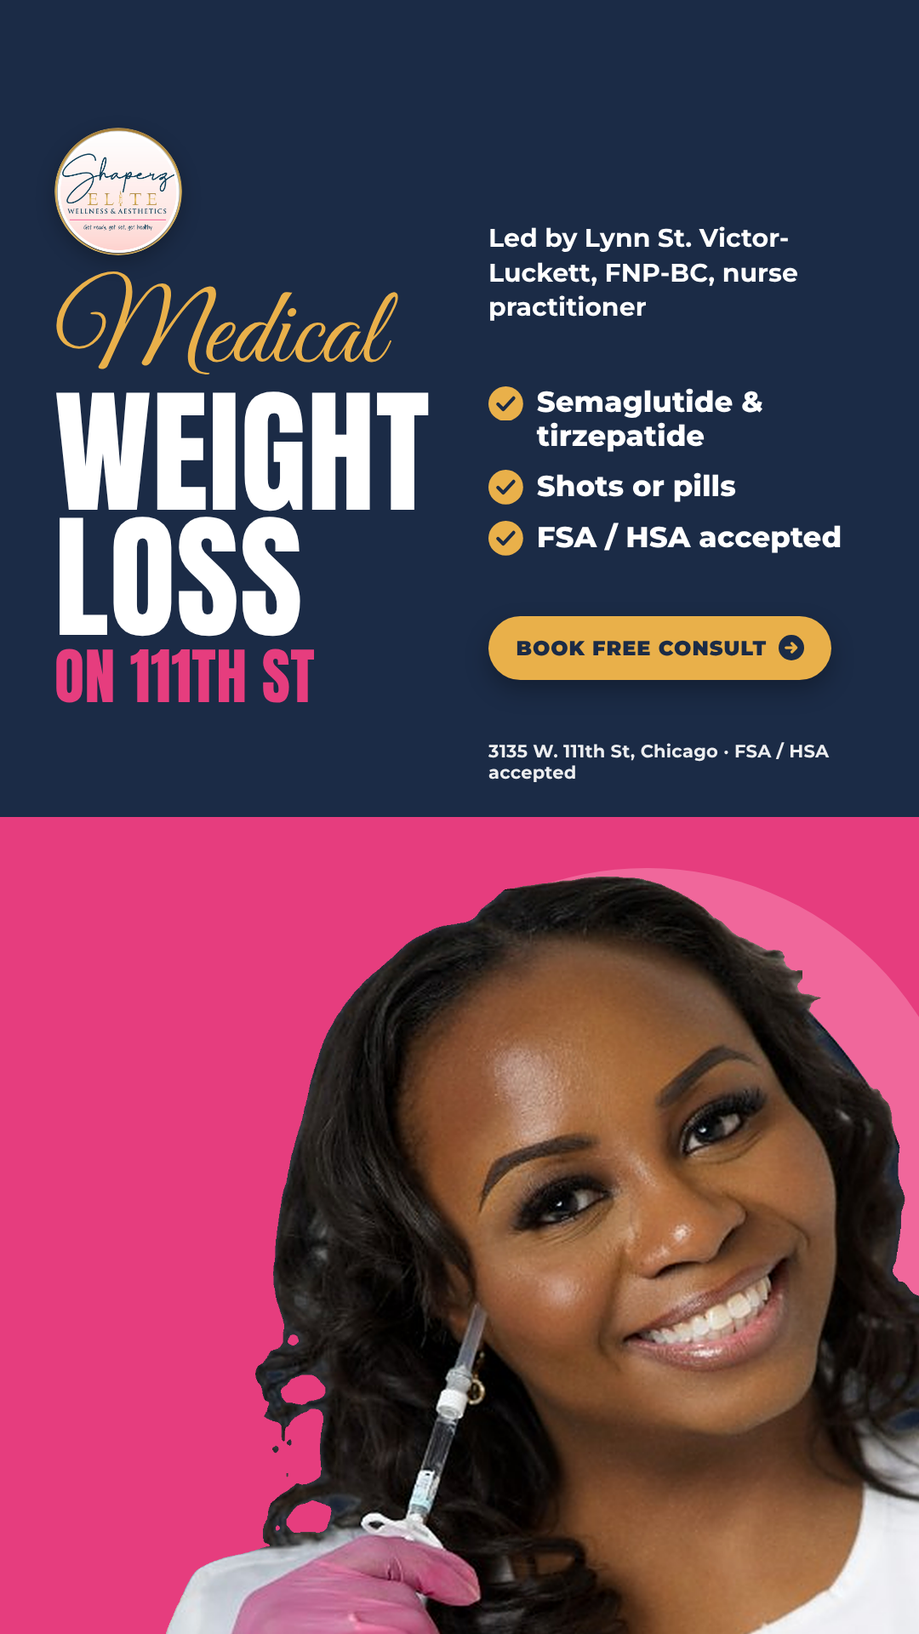
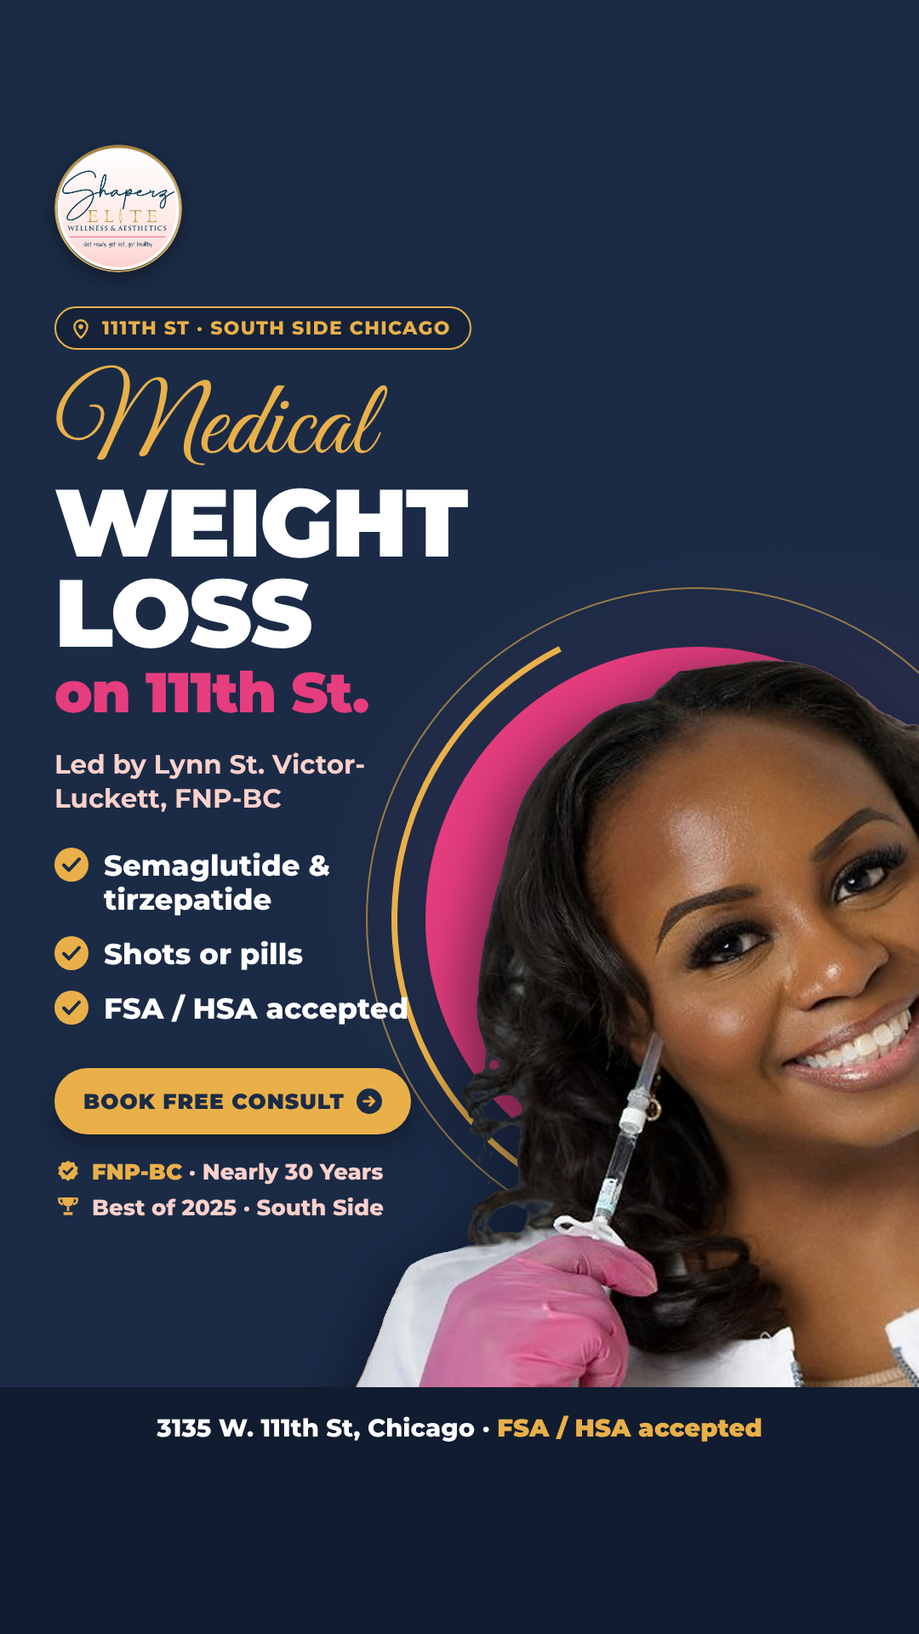
Shaperz v4: rebuild the ads in the Novaleo v4 style
Navy ground, person cut out on a pink disc with gold ring and arc,
bleeding off the side into the address band; script + heavy headline,
gold checks and button, proof line. Same layout grammar as the Novaleo
ads, in Shaperz colors, for feed and Stories.

Claude-Session: https://claude.ai/code/session_017jYzquWv7MYexAx6PPnLJC

diff --git a/ads/shaperz-v4/build/render.js b/ads/shaperz-v4/build/render.js
@@ -1,4 +1,5 @@
-// Shaperz v4 ads: people fill half the frame and bleed off the edges, text fills the rest.
+// Shaperz v4 ads, in the Novaleo v4 style: navy ground, person cut out on a pink disc with gold ring + arc,
+// bleeding off the side and into the address band; text column with pill, headline, checks, CTA, proof row.
 //   node ads/shaperz-v4/build/render.js   -> ads/shaperz-v4/shaperz-v4-<ad>-<feed|story>.png + preview.html
 // Run build/prep.py first (it writes photos/*-cut.png).
 const fs = require('fs');
@@ -9,10 +10,8 @@ const ROOT = path.resolve(__dirname, '..');
 const PHOTOS = path.join(ROOT, 'photos');
 const FONTS = path.join(__dirname, 'fonts');
 
-const C = { navy: '#1B2B46', navyDeep: '#121E33', pink: '#E63D7E', pinkDeep: '#C42A68', gold: '#E9B04A', goldDeep: '#B8862C', blush: '#FDD1CB', white: '#FFFFFF' };
+const C = { navy: '#1B2B46', navyDeep: '#111C30', pink: '#E63D7E', gold: '#E9B04A', goldDeep: '#B8862C', blush: '#FDD1CB', white: '#FFFFFF' };
 const SIZES = { feed: [1080, 1350], story: [1080, 1920] };
-// Cutouts are 1680×2130; every person is placed by its rendered width and top-left inside its panel.
-const CUT_W = 1680;
 
 const dataUri = (file) => {
   const ext = path.extname(file).slice(1);
@@ -22,7 +21,6 @@ const dataUri = (file) => {
 const font = (family, file, weight) =>
   `@font-face{font-family:'${family}';src:url(${dataUri(path.join(FONTS, file))}) format('woff2');font-weight:${weight}}`;
 const FONT_CSS = [
-  font('Anton', 'anton-latin-400-normal.woff2', 400),
   font('Great Vibes', 'great-vibes-latin-400-normal.woff2', 400),
   font('Montserrat', 'montserrat-latin-600-normal.woff2', 600),
   font('Montserrat', 'montserrat-latin-700-normal.woff2', 700),
@@ -33,145 +31,127 @@ const FONT_CSS = [
 const LOGO = dataUri(path.join(PHOTOS, 'shaperz-logo.png'));
 const PERSON = { lynn: dataUri(path.join(PHOTOS, 'lynn-cut.png')), woman249: dataUri(path.join(PHOTOS, 'woman249-cut.png')) };
 
-const check = (bg, fg) => `<svg viewBox="0 0 40 40"><circle cx="20" cy="20" r="20" fill="${bg}"/><path d="M11 20.5l6 6 12-13" fill="none" stroke="${fg}" stroke-width="4" stroke-linecap="round" stroke-linejoin="round"/></svg>`;
-const arrow = (bg, fg) => `<svg viewBox="0 0 24 24"><circle cx="12" cy="12" r="12" fill="${bg}"/><path d="M7 12h9m-3.5-4 4 4-4 4" fill="none" stroke="${fg}" stroke-width="2.6" stroke-linecap="round" stroke-linejoin="round"/></svg>`;
-const sparkle = (color, size) => `<svg class="spark" viewBox="0 0 24 24" style="width:${size}px;height:${size}px"><path d="M12 0c.6 6.2 5.8 11.4 12 12-6.2.6-11.4 5.8-12 12-.6-6.2-5.8-11.4-12-12C6.2 11.4 11.4 6.2 12 0z" fill="${color}"/></svg>`;
+const CHECK = `<svg viewBox="0 0 40 40"><circle cx="20" cy="20" r="20" fill="${C.gold}"/><path d="M11 20.5l6 6 12-13" fill="none" stroke="${C.navy}" stroke-width="4" stroke-linecap="round" stroke-linejoin="round"/></svg>`;
+const PIN = `<svg viewBox="0 0 24 24"><path d="M12 22s7-6.2 7-12a7 7 0 1 0-14 0c0 5.8 7 12 7 12z" fill="none" stroke="currentColor" stroke-width="2.2"/><circle cx="12" cy="10" r="2.6" fill="currentColor"/></svg>`;
+const ARROW = `<svg viewBox="0 0 24 24"><circle cx="12" cy="12" r="12" fill="${C.navy}"/><path d="M7 12h9m-3.5-4 4 4-4 4" fill="none" stroke="${C.gold}" stroke-width="2.4" stroke-linecap="round" stroke-linejoin="round"/></svg>`;
+const BADGE = `<svg viewBox="0 0 24 24"><path d="M12 2l2.4 1.8 3-.2.9 2.9 2.5 1.7-1 2.8 1 2.8-2.5 1.7-.9 2.9-3-.2L12 20l-2.4-1.8-3 .2-.9-2.9-2.5-1.7 1-2.8-1-2.8 2.5-1.7.9-2.9 3 .2z" fill="${C.gold}"/><path d="M8.3 11.3l2.5 2.5 4.9-5" fill="none" stroke="${C.navy}" stroke-width="2.2" stroke-linecap="round" stroke-linejoin="round"/></svg>`;
+const TROPHY = `<svg viewBox="0 0 24 24"><path d="M7 3h10v3a5 5 0 0 1-10 0z" fill="${C.gold}"/><path d="M7 4H4v1.5A3.5 3.5 0 0 0 7.5 9M17 4h3v1.5A3.5 3.5 0 0 1 16.5 9" fill="none" stroke="${C.gold}" stroke-width="1.8"/><path d="M11 11h2v4h-2zM8 16h8v2.5H8z" fill="${C.gold}"/></svg>`;
 
 const BASE_CSS = `
 ${FONT_CSS}
 *{box-sizing:border-box;margin:0;padding:0}
 html,body{width:var(--w);height:var(--h);overflow:hidden}
-body{font-family:'Montserrat',sans-serif;position:relative;-webkit-font-smoothing:antialiased}
-.panel{position:absolute;overflow:hidden}
-.panel .person{position:absolute;max-width:none}
-.circle{position:absolute;border-radius:50%}
-.text{position:absolute;display:flex;flex-direction:column;justify-content:space-between;z-index:3}
-.logo{width:150px;height:150px;border-radius:50%;box-shadow:0 8px 22px rgba(0,0,0,.25)}
-.script{font-family:'Great Vibes',cursive;line-height:.9}
-.anton{font-family:'Anton',sans-serif;text-transform:uppercase;line-height:.92;letter-spacing:.005em}
-.checks{list-style:none;display:grid;gap:18px}
-.checks li{display:flex;gap:16px;align-items:flex-start;font-weight:800;line-height:1.18}
-.checks svg{flex:0 0 auto;margin-top:.04em}
-.cta{display:inline-flex;align-items:center;gap:14px;border-radius:999px;font-weight:900;letter-spacing:.04em;text-transform:uppercase;box-shadow:0 12px 28px rgba(0,0,0,.28);align-self:flex-start;white-space:nowrap}
-.addr{font-weight:700;letter-spacing:.01em;opacity:.92}
-.badge{position:relative;border-radius:50%;background:radial-gradient(circle at 35% 30%, #F7D27E, ${C.gold} 55%, ${C.goldDeep});display:flex;flex-direction:column;align-items:center;justify-content:center;color:${C.navy};text-align:center;box-shadow:0 10px 26px rgba(0,0,0,.3), inset 0 0 0 6px rgba(255,255,255,.35)}
-.badge b{font-family:'Anton';font-weight:400;line-height:.95}
+body{background:${C.navy};color:${C.white};font-family:'Montserrat',sans-serif;position:relative;-webkit-font-smoothing:antialiased}
+.feed{--logo-top:48px}.story{--logo-top:170px}
+.bgglow{position:absolute;inset:0;background:radial-gradient(900px 700px at var(--glow-x,85%) 55%, rgba(230,61,126,.16), transparent 60%)}
+.logo{position:absolute;top:var(--logo-top);width:150px;height:150px;border-radius:50%;z-index:5;box-shadow:0 8px 22px rgba(0,0,0,.35)}
+.ring{position:absolute;border-radius:50%;border:2px solid rgba(233,176,74,.6)}
+.arc{position:absolute;border-radius:50%;border:7px solid ${C.gold};border-color:transparent transparent ${C.gold} ${C.gold};transform:rotate(18deg)}
+.arc.flip{border-color:transparent ${C.gold} ${C.gold} transparent;transform:rotate(-18deg)}
+.disc{position:absolute;border-radius:50%;background:${C.pink}}
+.person{position:absolute;z-index:2;filter:drop-shadow(-18px 10px 30px rgba(5,10,24,.5))}
+.copy{position:absolute;z-index:4}
+.pill{display:inline-flex;align-items:center;gap:12px;border:2px solid ${C.gold};color:${C.gold};border-radius:999px;padding:10px 22px 10px 16px;font-weight:800;font-size:22px;letter-spacing:.06em;text-transform:uppercase;background:rgba(17,28,48,.55);white-space:nowrap}
+.pill svg{width:26px;height:26px}
+.script{font-family:'Great Vibes',cursive;line-height:.95}
+.black{font-weight:900;letter-spacing:-.02em;text-transform:uppercase}
+.checks{list-style:none;display:grid;gap:20px}
+.checks li{display:flex;gap:18px;align-items:flex-start;font-weight:800;font-size:31px;line-height:1.18}
+.checks svg{flex:0 0 40px;width:40px;height:40px;margin-top:-1px}
+.story .checks li{font-size:34px}.story .checks{gap:24px}
+.cta{display:inline-flex;align-items:center;gap:14px;background:${C.gold};color:${C.navy};border-radius:999px;padding:24px 34px;font-weight:900;font-size:25px;letter-spacing:.04em;text-transform:uppercase;box-shadow:0 12px 28px rgba(0,0,0,.35);white-space:nowrap}
+.cta svg{width:30px;height:30px}
+.proof{display:grid;gap:10px;margin-top:22px;font-weight:800;font-size:23px;color:${C.blush};white-space:nowrap}
+.proof>div{display:flex;align-items:center;gap:12px}
+.proof svg{width:32px;height:32px;flex:0 0 32px}
+.proof b{color:${C.gold};font-weight:900}
+.story .proof{font-size:26px;margin-top:28px}
+.badge{border-radius:50%;background:radial-gradient(circle at 35% 30%, #F7D27E, ${C.gold} 55%, ${C.goldDeep});display:flex;flex-direction:column;align-items:center;justify-content:center;color:${C.navy};text-align:center;box-shadow:0 10px 26px rgba(0,0,0,.35), inset 0 0 0 6px rgba(255,255,255,.35)}
+.badge b{font-weight:900;line-height:.95;letter-spacing:-.02em}
 .badge span{font-weight:900;text-transform:uppercase;letter-spacing:.08em;line-height:1.2}
-.spark{position:absolute;z-index:2}
+.band{position:absolute;left:0;right:0;bottom:0;height:80px;background:${C.navyDeep};display:flex;align-items:center;justify-content:center;font-weight:800;font-size:26px;z-index:6}
+.band b{color:${C.gold};font-weight:900}
+.story .band{height:290px;align-items:flex-start;padding-top:30px;font-size:29px}
 `;
 
+const pill = (text) => `<div class="pill">${PIN}<span>${text}</span></div>`;
+const checks = (items) => `<ul class="checks">${items.map((t) => `<li>${CHECK}<span>${t}</span></li>`).join('')}</ul>`;
+const cta = (label) => `<div class="cta">${label} ${ARROW}</div>`;
+const proof = (award = true) => `<div class="proof"><div>${BADGE}<span><b>FNP-BC</b> · Nearly 30 Years</span></div>${award ? `<div>${TROPHY}<span>Best of 2025 · South Side</span></div>` : ''}</div>`;
 const badge = (size) => `<div class="badge" style="width:${size}px;height:${size}px">
-  <span style="font-size:${size * 0.085}px">Best of</span><b style="font-size:${size * 0.34}px">2025</b>
+  <span style="font-size:${size * 0.085}px">Best of</span><b style="font-size:${size * 0.32}px">2025</b>
   <span style="font-size:${size * 0.07}px">Medical Spa</span><span style="font-size:${size * 0.07}px">South Side</span></div>`;
-const checks = (items, size, bg, fg, color) =>
-  `<ul class="checks" style="font-size:${size}px;color:${color}">${items.map((t) => `<li>${check(bg, fg).replace('<svg', `<svg style="width:${size * 1.2}px;height:${size * 1.2}px"`)}<span>${t}</span></li>`).join('')}</ul>`;
-const cta = (label, size, bg, fg) =>
-  `<div class="cta" style="background:${bg};color:${fg};font-size:${size}px;padding:${size * 0.95}px ${size * 1.35}px">${label} ${arrow(fg, bg).replace('<svg', `<svg style="width:${size * 1.25}px;height:${size * 1.25}px"`)}</div>`;
-const ADDRESS = '3135 W. 111th St, Chicago · FSA / HSA accepted';
+const band = `<div class="band"><span>3135 W. 111th St, Chicago · <b>FSA / HSA accepted</b></span></div>`;
 
-// panel: {x,y,w,h,bg}; person: {name,w,x,y} (x,y inside the panel); circle: {x,y,d,color} inside the panel.
-function personPanel(p) {
-  const circle = p.circle ? `<div class="circle" style="left:${p.circle.x}px;top:${p.circle.y}px;width:${p.circle.d}px;height:${p.circle.d}px;background:${p.circle.color}"></div>` : '';
-  return `<div class="panel" style="left:${p.x}px;top:${p.y}px;width:${p.w}px;height:${p.h}px;background:${p.bg}">${circle}
-    <img class="person" src="${PERSON[p.person.name]}" style="width:${p.person.w}px;left:${p.person.x}px;top:${p.person.y}px"></div>`;
-}
-
-function page(size, bg, body) {
+function page(size, glowX, body) {
   const [w, h] = SIZES[size];
-  return `<!doctype html><html><head><meta charset="utf-8"><style>:root{--w:${w}px;--h:${h}px}${BASE_CSS}</style></head>
-<body style="background:${bg}">${body}</body></html>`;
+  return `<!doctype html><html><head><meta charset="utf-8"><style>:root{--w:${w}px;--h:${h}px;--glow-x:${glowX}}${BASE_CSS}</style></head>
+<body class="${size}"><div class="bgglow"></div>${body}${band}</body></html>`;
 }
 
+// art: disc [x, y, diameter]; person: rendered width w and top-left (x, y); side: where the person bleeds off.
 const ADS = [
   {
-    // Ad 1: Medical Weight Loss on 111th St, now with Lynn (the provider) instead of a stock model.
-    id: 'ad1-medical', bg: C.navy,
-    feed: {
-      panel: { x: 540, y: 0, w: 540, h: 1350, bg: C.pink, circle: { x: 40, y: 60, d: 640, color: '#F0679B' }, person: { name: 'lynn', w: 1100, x: -437, y: -30 } },
-      text: { x: 60, y: 54, w: 460, h: 1242 },
-      sizes: { script: 120, anton: 150, anton2: 64, lead: 25, checks: 27, cta: 23, addr: 19, badge: 0 },
-    },
-    story: {
-      panel: { x: 0, y: 960, w: 1080, h: 960, bg: C.pink, circle: { x: 380, y: 60, d: 760, color: '#F0679B' }, person: { name: 'lynn', w: 1100, x: 0, y: -40 } },
-      text: { x: 64, y: 150, w: 952, h: 770, split: 470 },
-      sizes: { script: 130, anton: 160, anton2: 72, lead: 30, checks: 34, cta: 24, addr: 21, badge: 0 },
-    },
-    body: (s, z) => [`
-      <div>
-        <img class="logo" src="${LOGO}">
-        <div style="margin-top:${z.script * 0.25}px;position:relative">
-          <div class="script" style="font-size:${z.script}px;color:${C.gold}">Medical</div>
-          <div class="anton" style="font-size:${z.anton}px;color:${C.white};margin-top:4px">Weight<br>Loss</div>
-          <div class="anton" style="font-size:${z.anton2}px;color:${C.pink};margin-top:10px">on 111th St</div>
+    id: 'ad1-medical', side: 'right', photo: 'lynn',
+    copy: (s) => `
+      <div class="copy" style="left:64px;top:${s === 'feed' ? 226 : 360}px;width:${s === 'feed' ? 560 : 520}px">
+        ${pill('111th St · South Side Chicago')}
+        <div style="margin-top:${s === 'feed' ? 20 : 34}px;line-height:.95">
+          <div class="script" style="font-size:${s === 'feed' ? 108 : 126}px;color:${C.gold}">Medical</div>
+          <div class="black" style="font-size:${s === 'feed' ? 96 : 112}px;margin-top:-4px">Weight<br>Loss</div>
+          <div class="black" style="font-size:${s === 'feed' ? 58 : 66}px;color:${C.pink};margin-top:10px;text-transform:none">on 111th St.</div>
         </div>
-      </div>`, `
-      <p style="font-weight:700;font-size:${z.lead}px;color:${C.white};line-height:1.35">Led by Lynn St. Victor-Luckett, FNP-BC, nurse practitioner</p>
-      ${checks(['Semaglutide &amp; tirzepatide', 'Shots or pills', 'FSA / HSA accepted'], z.checks, C.gold, C.navy, C.white)}
-      ${cta('Book Free Consult', z.cta, C.gold, C.navy)}
-      <div class="addr" style="font-size:${z.addr}px;color:${C.white}">${ADDRESS}</div>`],
+        <p style="font-weight:700;font-size:${s === 'feed' ? 27 : 31}px;margin-top:${s === 'feed' ? 22 : 32}px;color:${C.blush};line-height:1.3;max-width:470px">Led by Lynn St. Victor-Luckett, FNP-BC</p>
+        <div style="margin-top:${s === 'feed' ? 26 : 38}px;max-width:470px">${checks(['Semaglutide &amp; tirzepatide', 'Shots or pills', 'FSA / HSA accepted'])}</div>
+        <div style="margin-top:${s === 'feed' ? 34 : 50}px">${cta('Book Free Consult')}</div>${proof()}
+      </div>`,
+    art: { feed: { disc: [580, 320, 600], w: 860, x: 350, y: 360 }, story: { disc: [500, 760, 640], w: 960, x: 280, y: 680 } },
   },
   {
-    // Ad 2: $249 first month offer.
-    id: 'ad2-offer', bg: C.pink,
-    feed: {
-      panel: { x: 0, y: 0, w: 540, h: 1350, bg: C.navy, circle: { x: -160, y: 120, d: 760, color: '#26395C' }, person: { name: 'woman249', w: 1070, x: -100, y: 10 } },
-      text: { x: 590, y: 54, w: 440, h: 1242 },
-      sizes: { pill: 22, price: 250, month: 96, checks: 28, cta: 23, addr: 18 },
-    },
-    story: {
-      panel: { x: 0, y: 960, w: 1080, h: 960, bg: C.navy, circle: { x: -120, y: 40, d: 860, color: '#26395C' }, person: { name: 'woman249', w: 1060, x: -60, y: -90 } },
-      text: { x: 64, y: 150, w: 952, h: 770, split: 480 },
-      sizes: { pill: 24, price: 260, month: 100, checks: 34, cta: 26, addr: 21 },
-    },
-    body: (s, z) => [`
-      <img class="logo" src="${LOGO}">
-      <div>
-        <div style="display:inline-block;background:${C.white};color:${C.pink};font-weight:900;font-size:${z.pill}px;letter-spacing:.06em;padding:12px 22px;border-radius:999px;text-transform:uppercase;white-space:nowrap">Medical Weight Loss</div>
-        <div class="anton" style="font-size:${z.price}px;color:${C.navy};line-height:.86;margin-top:18px">$249</div>
-        <div class="anton" style="font-size:${z.month}px;color:${C.white};margin-top:6px">First Month</div>
-      </div>`, `
-      ${checks(['Labs + hormone review', 'ShapeScale 3D body scan', 'Meal plan + exercise guidance', '60-min visit with your NP'], z.checks, C.navy, C.white, C.white)}
-      ${cta('Claim Your Spot', z.cta, C.navy, C.white)}
-      <div class="addr" style="font-size:${z.addr}px;color:${C.white}">${ADDRESS}</div>`],
+    id: 'ad2-offer', side: 'left', photo: 'woman249',
+    copy: (s) => `
+      <div class="copy" style="right:64px;top:${s === 'feed' ? 226 : 360}px;width:${s === 'feed' ? 500 : 520}px;text-align:right;display:flex;flex-direction:column;align-items:flex-end">
+        ${pill('Medical Weight Loss')}
+        <div style="margin-top:${s === 'feed' ? 20 : 34}px;line-height:.92">
+          <div class="script" style="font-size:${s === 'feed' ? 92 : 108}px;color:${C.gold}">Your first month</div>
+          <div class="black" style="font-size:${s === 'feed' ? 190 : 216}px;margin-top:-6px">$249</div>
+          <div class="black" style="font-size:${s === 'feed' ? 50 : 58}px;color:${C.pink};margin-top:8px">All this included:</div>
+        </div>
+        <div style="margin-top:${s === 'feed' ? 28 : 40}px;text-align:left">${checks(['Labs + hormone review', 'ShapeScale 3D body scan', 'Meal plan + exercise guidance', '60-min visit with your NP'])}</div>
+        <div style="margin-top:${s === 'feed' ? 34 : 50}px">${cta('Claim Your Spot')}</div>
+        ${proof().replace('class="proof"', 'class="proof" style="justify-items:end"')}
+      </div>`,
+    art: { feed: { disc: [-120, 380, 600], w: 840, x: -110, y: 400 }, story: { disc: [-150, 800, 660], w: 940, x: -110, y: 740 } },
   },
   {
-    // Ad 3: Meet Lynn.
-    id: 'ad3-provider', bg: C.blush,
-    feed: {
-      panel: { x: 540, y: 0, w: 540, h: 1350, bg: C.navy, circle: { x: 30, y: 70, d: 640, color: '#E86C9A' }, person: { name: 'lynn', w: 1100, x: -437, y: -30 } },
-      text: { x: 60, y: 54, w: 450, h: 1242 },
-      sizes: { script: 150, anton: 250, sub: 30, checks: 29, cta: 23, addr: 18, badge: 190 },
-    },
-    story: {
-      panel: { x: 0, y: 960, w: 1080, h: 960, bg: C.navy, circle: { x: 380, y: 60, d: 760, color: '#E86C9A' }, person: { name: 'lynn', w: 1100, x: 0, y: -40 } },
-      text: { x: 64, y: 150, w: 952, h: 770, split: 470 },
-      sizes: { script: 150, anton: 250, sub: 30, checks: 32, cta: 24, addr: 21, badge: 210 },
-    },
-    body: (s, z) => [`
-      <div>
-        <img class="logo" src="${LOGO}">
-        <div class="script" style="font-size:${z.script}px;color:${C.pink};margin-top:${z.script * 0.2}px">Meet</div>
-        <div class="anton" style="font-size:${z.anton}px;color:${C.navy};margin-top:-6px">Lynn</div>
-        <p style="font-weight:900;font-size:${z.sub}px;color:${C.navy};line-height:1.2;text-transform:uppercase;letter-spacing:.02em;margin-top:14px">Your weight loss<br>nurse practitioner</p>
-      </div>`, `
-      ${checks(['Nearly 30 years in practice', '60-minute first visit', 'Right here on 111th St'], z.checks, C.pink, C.white, C.navy)}
-      ${cta('Book Free Consult', z.cta, C.navy, C.white)}
-      ${z.badge ? badge(z.badge) : ''}
-      <div class="addr" style="font-size:${z.addr}px;color:${C.navy}">${ADDRESS}</div>`],
+    id: 'ad3-provider', side: 'right', photo: 'lynn',
+    copy: (s) => `
+      <div class="copy" style="left:64px;top:${s === 'feed' ? 226 : 360}px;width:${s === 'feed' ? 560 : 520}px">
+        ${pill('111th St · South Side Chicago')}
+        <div style="margin-top:${s === 'feed' ? 14 : 26}px;line-height:.9">
+          <div class="script" style="font-size:${s === 'feed' ? 130 : 150}px;color:${C.pink}">Meet</div>
+          <div class="black" style="font-size:${s === 'feed' ? 160 : 186}px;margin-top:-10px">Lynn</div>
+        </div>
+        <p class="black" style="font-size:${s === 'feed' ? 31 : 35}px;line-height:1.18;margin-top:${s === 'feed' ? 18 : 26}px;letter-spacing:.01em;font-weight:800">Your weight loss<br>nurse practitioner</p>
+        <p style="font-weight:700;font-size:${s === 'feed' ? 25 : 25}px;margin-top:10px;color:${C.blush}">Lynn St. Victor-Luckett, <b style="color:${C.gold};font-weight:900">FNP-BC</b></p>
+        <div style="margin-top:${s === 'feed' ? 28 : 40}px;max-width:470px">${checks(['Nearly 30 years in practice', '60-minute first visit', 'Right here on 111th St'])}</div>
+        <div style="margin-top:${s === 'feed' ? 34 : 50}px">${cta('Book Free Consult')}</div>
+        <div style="margin-top:${s === 'feed' ? 26 : 40}px">${badge(s === 'feed' ? 160 : 190)}</div>
+      </div>`,
+    art: { feed: { disc: [580, 320, 600], w: 860, x: 350, y: 360 }, story: { disc: [500, 760, 640], w: 960, x: 280, y: 680 } },
   },
 ];
 
 function adHtml(ad, size) {
-  const L = ad[size];
-  const t = L.text;
-  const [left, right] = ad.body(size, L.sizes);
-  const box = `left:${t.x}px;top:${t.y}px;width:${t.w}px;height:${t.h}px`;
-  const text = size === 'feed'
-    ? `<div class="text" style="${box}">${left}${right}</div>`
-    : `<div style="position:absolute;${box};display:flex;gap:40px;z-index:3">
-        <div class="text" style="position:relative;flex:0 0 ${t.split}px;height:100%">${left}</div>
-        <div class="text" style="position:relative;flex:1;height:100%;padding-top:110px">${right}</div></div>`;
-  return page(size, ad.bg, personPanel(L.panel) + text);
+  const a = ad.art[size];
+  const [dx, dy, d] = a.disc;
+  const art = `
+    <div class="ring" style="left:${dx - 70}px;top:${dy - 70}px;width:${d + 140}px;height:${d + 140}px"></div>
+    <div class="disc" style="left:${dx}px;top:${dy}px;width:${d}px;height:${d}px"></div>
+    <div class="arc${ad.side === 'left' ? ' flip' : ''}" style="left:${dx - 40}px;top:${dy - 40}px;width:${d + 80}px;height:${d + 80}px"></div>
+    <img class="person" src="${PERSON[ad.photo]}" style="width:${a.w}px;left:${a.x}px;top:${a.y}px">`;
+  const logo = `<img class="logo" src="${LOGO}" style="${ad.side === 'left' ? 'right' : 'left'}:64px">`;
+  return page(size, ad.side === 'left' ? '15%' : '85%', art + logo + ad.copy(size));
 }
 
 function previewHtml(files) {

diff --git a/ads/shaperz-v4/README.md b/ads/shaperz-v4/README.md
@@ -1,14 +1,19 @@
-# Shaperz ads v4: people fill the frame
+# Shaperz ads v4: Novaleo-style layouts
 
-The three v3 Shaperz ads, re-laid out so the person takes at least half the image and runs off the edges, with text filling the rest. Feed 1080×1350 and Stories 1080×1920.
+The three Shaperz ads, rebuilt on the Novaleo v4 template in Shaperz colors:
+- Navy background, with the person cut out on a hot-pink disc with a gold ring and arc. The person runs off the side and into the address band.
+- Text column with a gold-outlined pill, a Great Vibes script word over a heavy Montserrat headline, gold checks and a gold pill button.
+- Proof line (FNP-BC · Nearly 30 Years · Best of 2025), with the address band at the bottom.
 
-| Ad | Person | Feed layout | Stories layout |
-|---|---|---|---|
-| `ad1-medical` · Medical Weight Loss on 111th St | **Lynn** (replaces the pink-blazer stock model) | Lynn fills the right half, off the right/top/bottom edges | Lynn fills the bottom half; headline left, checklist + button right |
-| `ad2-offer` · $249 First Month | Stock woman (orange top) | She fills the left half, off the left and bottom edges; $249, checklist, button fill the right side | She fills the bottom half; $249 left, checklist + button right |
-| `ad3-provider` · Meet Lynn | Lynn | Lynn fills the right half; bigger "Meet LYNN" and checklist; gold "Best of 2025" badge under the button | Lynn fills the bottom half; badge under the button |
+Feed 1080×1350 and Stories 1080×1920.
 
-In Stories the person sits in the bottom half, where Instagram's reply bar covers the bottom ~290px, so faces are kept above it. A half-width panel in a 9:16 frame would be 540×1920, too narrow for these portraits.
+| Ad | Person | Layout |
+|---|---|---|
+| `ad1-medical` · Medical Weight Loss on 111th St. | **Lynn** (replaces the pink-blazer stock model) | Text left, Lynn right |
+| `ad2-offer` · Your first month $249 | Stock woman (orange top) | Woman left (her photo has a hard left edge), text right-aligned on the right |
+| `ad3-provider` · Meet Lynn | Lynn | Text left with the gold "Best of 2025" badge under the button, Lynn right |
+
+Stories keep the top 170px and the bottom 290px (address band) free of key text, as in the Novaleo Stories. White text may run over the edge of the people's dark hair, but never over a face.
 
 ## Photo quality
 No original photos were available, so both people are cropped from the finished v3 feed ads (~560×710) and upscaled 3× with Lanczos resampling (see `photos.md`). They look fine at phone size; replace `photos/*-from-v3.png` with the originals when the clinic sends them and rerun the build.
